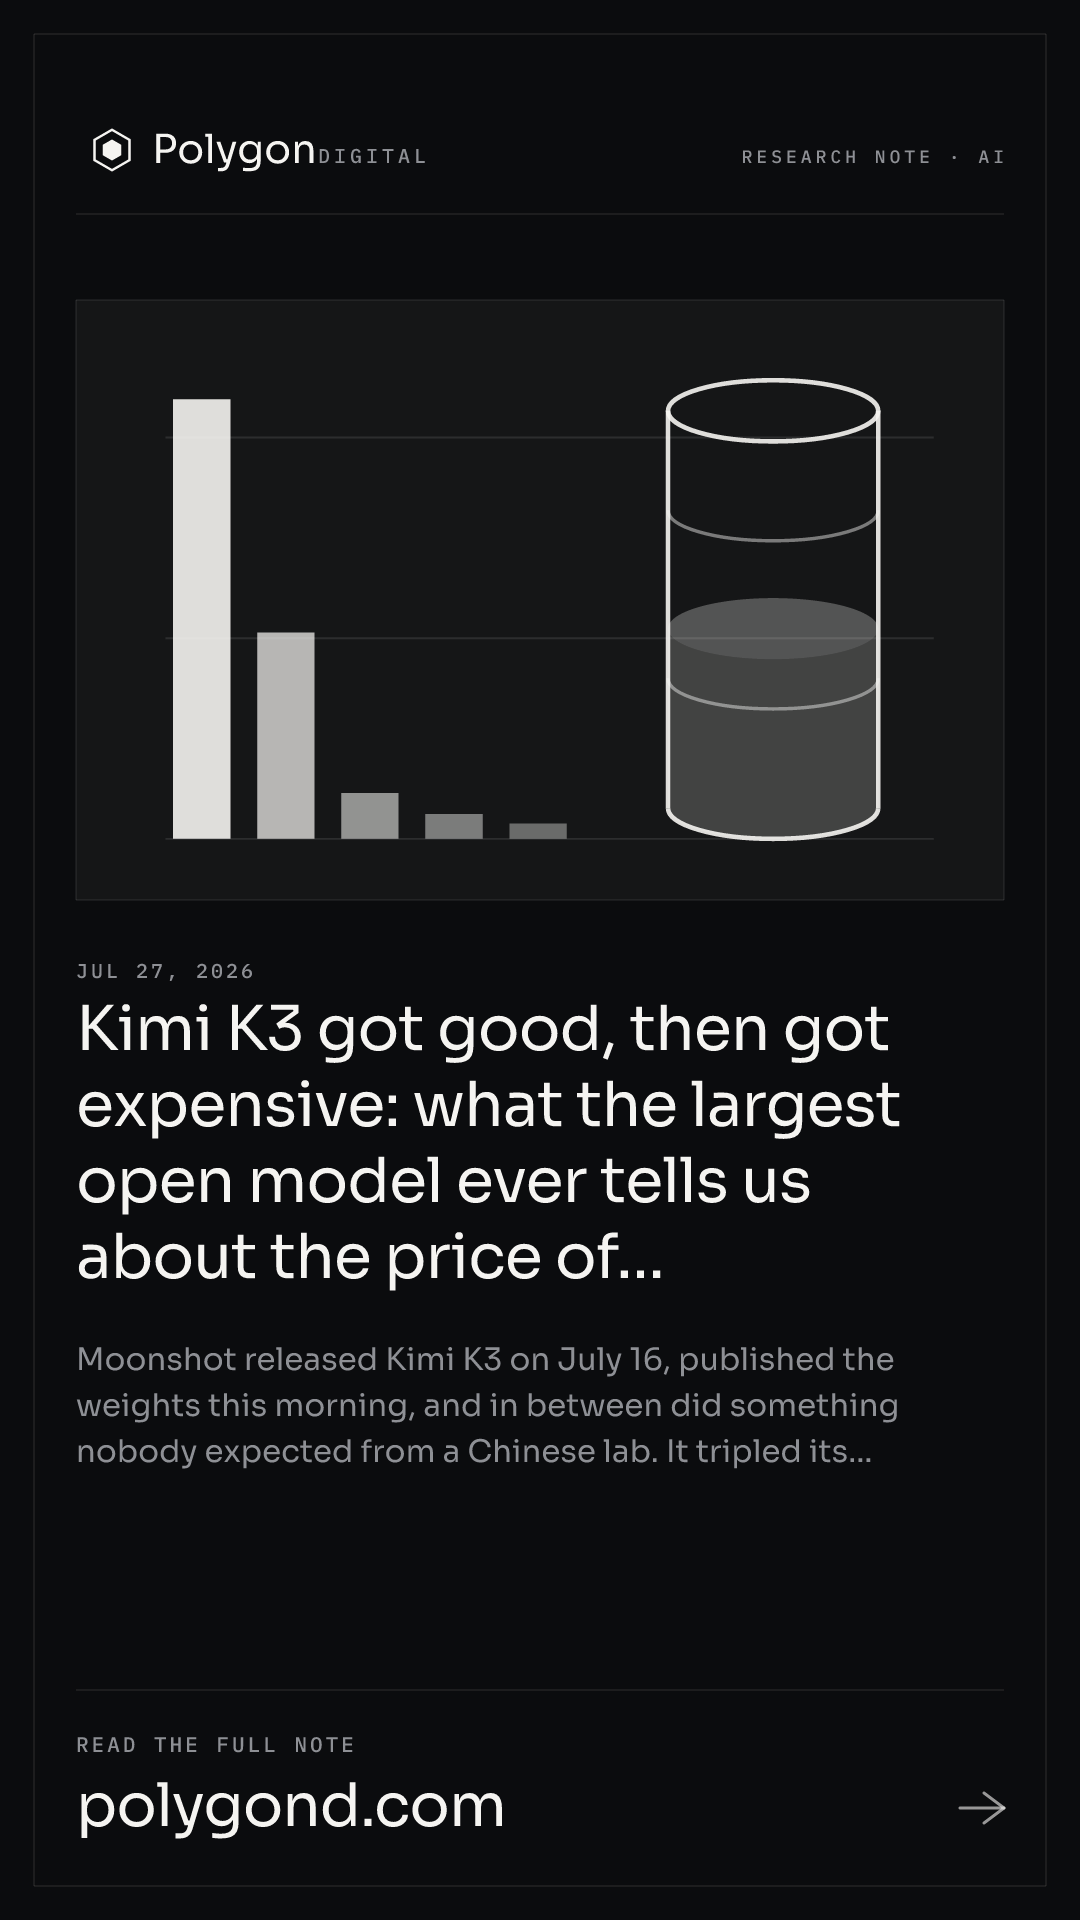
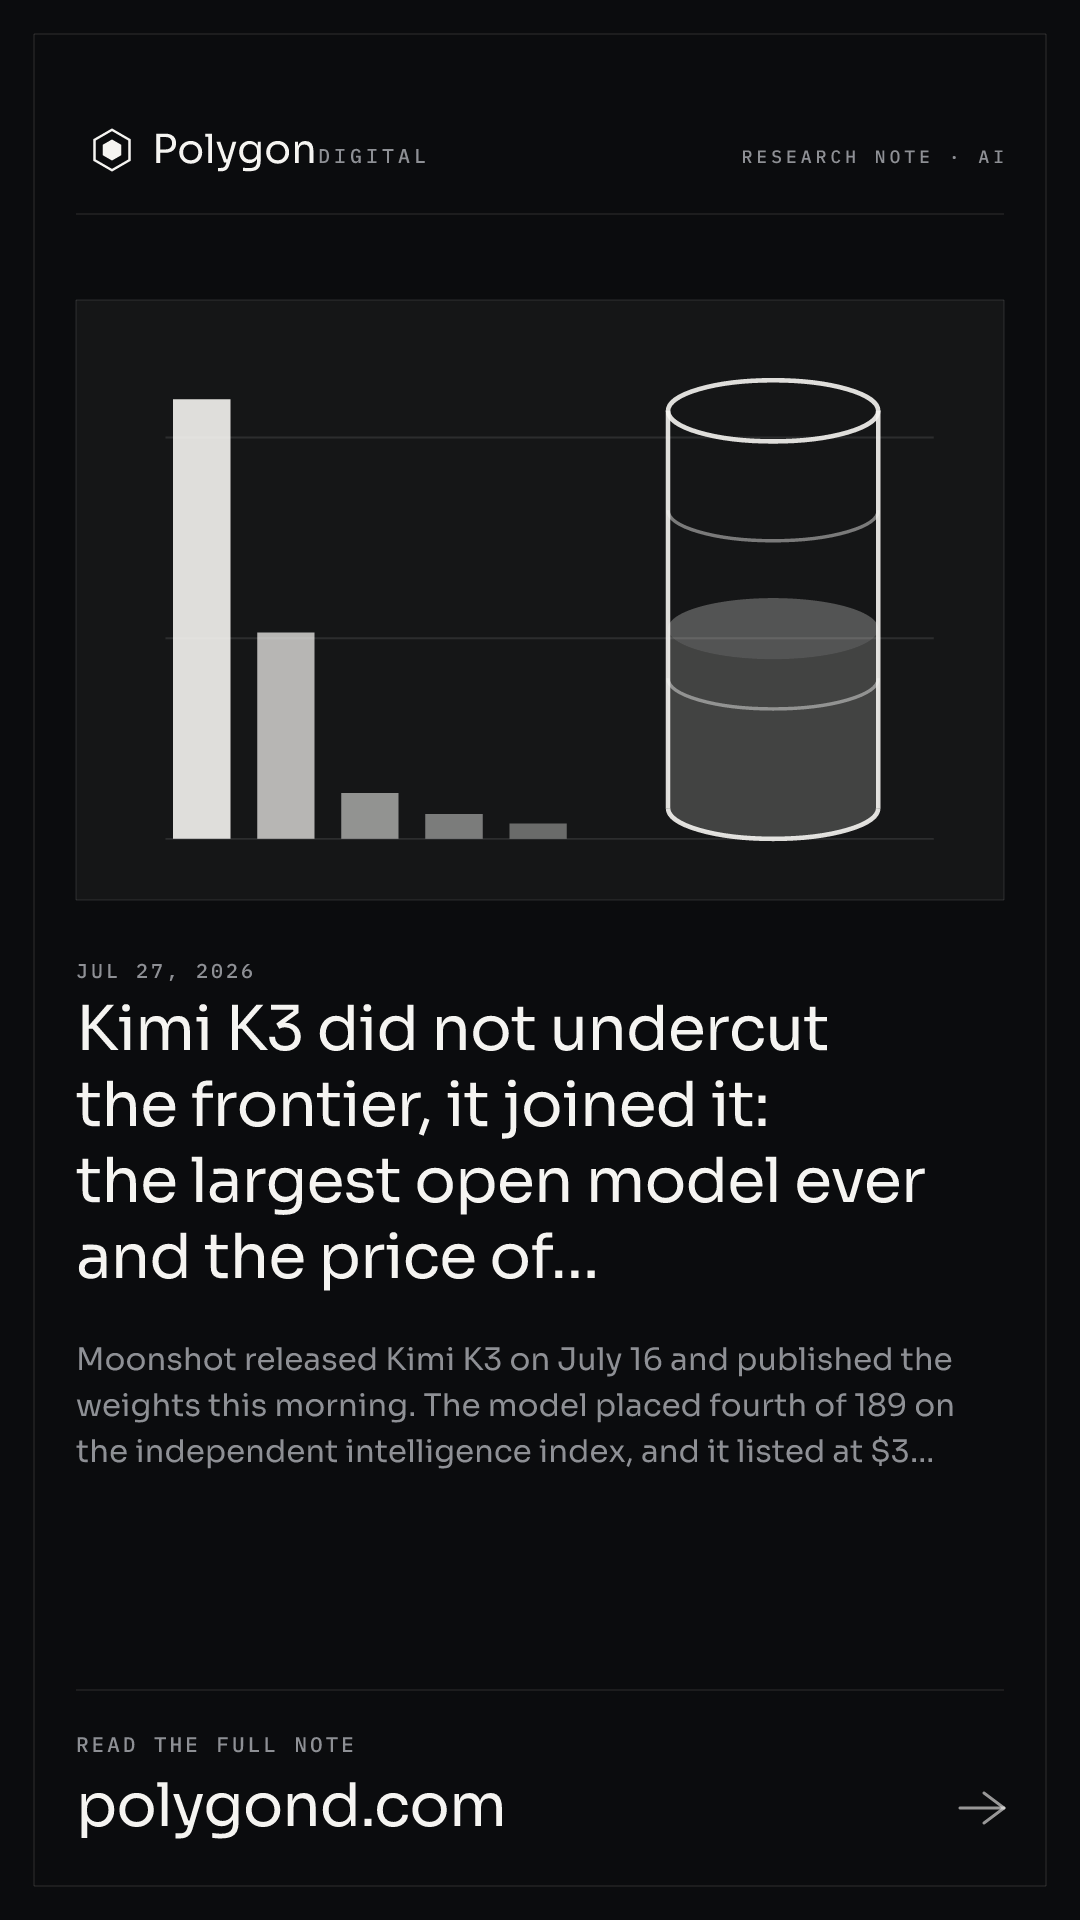
Correct the pricing framing: K3 is a new tier, not a price rise
Moonshot never repriced anything. K2.6 ($0.95/$4), K2.5 and K2 all remain
on the sheet unchanged; K3 simply launched a weight class up at $3/$15.
Retitles the post, rewrites the pricing section and the takeaway, and adds
the Moonshot price sheet as a reference.

Changed region(s): [[0.0611, 0.5312, 0.8556, 0.6875], [0.0611, 0.6875, 0.8861, 0.7812]]

diff --git a/src/posts/the-barrel-of-intelligence.md b/src/posts/the-barrel-of-intelligence.md
@@ -1,13 +1,13 @@
 ---
-title: "Kimi K3 got good, then got expensive: what the largest open model ever tells us about the price of intelligence"
+title: "Kimi K3 did not undercut the frontier, it joined it: the largest open model ever and the price of intelligence"
 date: 2026-07-27
-summary: Moonshot released Kimi K3 on July 16, published the weights this morning, and in between did something nobody expected from a Chinese lab. It tripled its price. The model placed fourth of 189 on the independent intelligence index and now lists at Claude Sonnet rates. Here is what that says about what a unit of intelligence is actually worth, why the deflation everyone is waiting for arrives through downloads rather than rate cards, and why the grade of the barrel matters more than the price of it.
+summary: Moonshot released Kimi K3 on July 16 and published the weights this morning. The model placed fourth of 189 on the independent intelligence index, and it listed at $3 per million input tokens, roughly triple what the previous Kimi costs. Moonshot did not raise anyone's prices. It launched a model a full weight class up and charged accordingly. Here is what that says about what a unit of intelligence is actually worth, why the deflation everyone is waiting for arrives through downloads rather than rate cards, and why the grade of the barrel matters more than the price of it.
 tags: ai, tokens, markets
 ---
 
-<p class="article-dek">Kimi K3 shipped on July 16 as the largest open-weight model ever built: 2.8 trillion parameters, a million-token context window, fourth of 189 models on the independent intelligence index. This morning Moonshot published the weights. Somewhere between those two events the model did something no one had it priced for. It got more expensive.</p>
+<p class="article-dek">Kimi K3 shipped on July 16 as the largest open-weight model ever built: 2.8 trillion parameters, a million-token context window, fourth of 189 models on the independent intelligence index. This morning Moonshot published the weights. And at $3 per million input tokens, it arrived at roughly triple the price of the Kimi that came before it.</p>
 
-<p class="lead">Our thesis in one sentence: K3 is the moment near-frontier capability stopped being a discount product, and the price move tells you more about where this market is heading than the benchmark table does. We covered the market reaction to this release in <a href="/blog/the-kimi-shock">the Kimi shock</a>. This note is about the number on the rate card, what it says about the cost of a unit of intelligence, and the thing almost nobody is pricing: that not all units are the same grade. It extends the argument we made in <a href="/blog/the-token-economy">the token paradox</a>.</p>
+<p class="lead">Our thesis in one sentence: K3 is the moment near-frontier capability stopped being a discount product, and where Moonshot placed it on the price sheet tells you more about where this market is heading than the benchmark table does. We covered the market reaction to this release in <a href="/blog/the-kimi-shock">the Kimi shock</a>. This note is about the number on the rate card, what it says about the cost of a unit of intelligence, and the thing almost nobody is pricing: that not all units are the same grade. It extends the argument we made in <a href="/blog/the-token-economy">the token paradox</a>.</p>
 
 ## What K3 actually posted
 
@@ -18,17 +18,19 @@ K3 sits **fourth of 189 models** on the Artificial Analysis Intelligence Index, 
 <div class="stat-band">
 <div class="stat"><span class="stat-v">#4 of 189</span><span class="stat-l">Artificial Analysis Intelligence Index, highest open-weight model ever<sup class="cite"><a href="#fn3">3</a></sup></span></div>
 <div class="stat"><span class="stat-v">1,679</span><span class="stat-l">Elo on LMArena Frontend Code, first place, up from #18 for K2.6<sup class="cite"><a href="#fn3">3</a></sup></span></div>
-<div class="stat"><span class="stat-v">3x</span><span class="stat-l">Input price increase from K2.6 to K3<sup class="cite"><a href="#fn4">4</a></sup></span></div>
+<div class="stat"><span class="stat-v">3.2x</span><span class="stat-l">K3's input price versus K2.6, which stays on the sheet at $0.95<sup class="cite"><a href="#fn7">7</a></sup></span></div>
 <div class="stat"><span class="stat-v">~594 GB</span><span class="stat-l">Quantized open weights, published today under a permissive license<sup class="cite"><a href="#fn5">5</a></sup></span></div>
 </div>
 
 That is not the profile of a cheap substitute. It is the profile of a product.
 
-## Then it raised its price
+## Then Moonshot priced it like a frontier model
 
-Kimi K3 lists at **$3 per million input tokens and $15 per million output**, with cached input at 30 cents. K2.6 listed at $0.95 and $4.<sup class="cite"><a href="#fn4">4</a></sup> Threefold on input, nearly fourfold on output, landing precisely on Claude Sonnet 5's rate card.
+Kimi K3 lists at **$3 per million input tokens and $15 per million output**, with cached input at 30 cents. K2.6 listed at $0.95 and $4.<sup class="cite"><a href="#fn4">4</a></sup> That is 3.2 times the input rate and 3.75 times the output rate, landing precisely on Claude Sonnet 5's card.
 
-The reflex reading is that Chinese labs are the deflation engine and everything drifts toward pennies. Moonshot just declined the role. It did not price at 50 cents because it no longer has to. The discount was never a strategy. It was a position, and K3 was the model that let the company leave it.
+One clarification worth making, because the shorthand gets this wrong: Moonshot did not raise anybody's prices. K2.6 is still on the sheet at $0.95 and $4, K2.5 at $0.60 and $3, K2 at $0.60 and $2.50, all unchanged.<sup class="cite"><a href="#fn7">7</a></sup> No existing customer saw a bill move. What happened is narrower and more interesting: Moonshot built a model a full weight class up and priced it for the class it had entered.
+
+The reflex reading of Chinese labs is that they are the deflation engine and everything drifts toward pennies. K3 declines the role. It is not priced at 50 cents because it does not have to be. The discount was never a strategy. It was a position, and K3 is the model that let the company leave it while keeping the cheap tier on sale underneath.
 
 To see why that matters, it helps to have a unit of account, and the best one on offer arrived two days before K3 shipped. On CNBC on July 14, Chamath Palihapitiya priced generative AI the way you would price crude: one barrel of intelligence equals one million tokens. Crude was trading near $80. The barrel of intelligence, he pointed out, was trading anywhere you liked. "You can buy it from OpenAI for 26 bucks. Anthropic's latest model costs you 56 bucks." And on the other side of the board: "Elon is selling you a barrel of intelligence for a buck. Zuck is about to sell it to you for a buck 50. Demis and Sundar are trying to sell it to you for a dollar. The Chinese will sell it to you for $0.50."<sup class="cite"><a href="#fn1">1</a></sup><sup class="cite"><a href="#fn2">2</a></sup>
 
@@ -86,7 +88,7 @@ To see why that matters, it helps to have a unit of account, and the best one on
 
 A hundredfold spread on what is nominally the same commodity. The forward call attached to it was specific: eventually a company misses earnings by a few cents and traces it straight back to buying $50 barrels when $1 barrels were on the shelf. He was careful to note it "hasn't happened yet."<sup class="cite"><a href="#fn2">2</a></sup>
 
-Put K3 on that board and the framing does something useful. It shows you that the 50 cent slot is now empty at the top of the quality curve. The cheapest seller of genuinely near-frontier capability just repriced itself into the middle of the board.
+Put K3 on that board and the framing does something useful. The 50 cent barrels are all still there. What is no longer there is a 50 cent barrel that competes at the top of the quality curve. Moonshot's cheap tier survived intact; its best model simply is not in it.
 
 ## The deflation is real. It is not coming from the rate card.
 
@@ -208,7 +210,7 @@ The cheap barrels have arrived. Most companies still have no refinery.
 <h3>The five things to remember</h3>
 <ol>
 <li><strong>K3 is a product now, not a discount.</strong> Fourth of 189 on the independent index, first on frontend code by blind human vote, first on legal and SaaS automation.</li>
-<li><strong>It raised its price to prove it.</strong> Input tripled to $3 and output nearly quadrupled to $15, matching Claude Sonnet 5. The 50 cent slot at the top of the quality curve is now empty.</li>
+<li><strong>Moonshot priced it accordingly.</strong> K3 lists at $3 and $15, matching Claude Sonnet 5, while K2.6 stays on sale at $0.95 and $4. Nobody's prices went up. The cheap tier just stopped being where the best model lives.</li>
 <li><strong>The spread is still the story.</strong> A million tokens costs anywhere from 50 cents to $56 depending on the seller. No commodity sustains a hundredfold spread indefinitely.</li>
 <li><strong>Deflation arrives through weights, not rate cards.</strong> With K3 open as of today, the price of near-frontier capability becomes an infrastructure question no lab controls.</li>
 <li><strong>Barrels have grades.</strong> K3 fabricates confidently 51% of the time it is uncertain, versus 36% for Opus and 28% for GLM. Harness choices swing benchmark results another 10 to 26 points on identical weights. That is where the durable advantage sits.</li>
@@ -224,6 +226,7 @@ The cheap barrels have arrived. Most companies still have no refinery.
 <li id="fn4"><span class="src">The Decoder</span>: K3 pricing versus K2.6, comparison to Sonnet 5 and to DeepSeek and GLM cost per task, and the argument that ultra-cheap Chinese frontier pricing is ending. <a href="https://the-decoder.com/kimis-open-model-k3-nears-gpt-5-6-sol-and-fable-5-while-signaling-the-end-of-super-cheap-chinese-ai/" target="_blank" rel="noopener">the-decoder.com</a></li>
 <li id="fn5"><span class="src">Hugging Face</span>: Kimi K3 model overview, 2.8T parameters, MXFP4 quantization and the open-weight release. <a href="https://huggingface.co/blog/ResterChed/kimi-k3-model-overview-mxfp4-quantization-open-wei" target="_blank" rel="noopener">huggingface.co</a></li>
 <li id="fn6"><span class="src">Kili Technology</span>: Kimi K3's benchmarks and hallucinations, and the measured gap between lab benchmark scores and real-world deployment performance. <a href="https://kili-technology.com/blog/kimi-k3s-benchmarks-and-hallucinations----what-that-tells-us-about-ai-evaluation" target="_blank" rel="noopener">kili-technology.com</a></li>
+<li id="fn7"><span class="src">BenchLM</span>: Moonshot API price sheet, July 2026, showing K3 at $3.00 / $15.00 alongside K2.6 at $0.95 / $4.00, K2.5 at $0.60 / $3.00 and K2 at $0.60 / $2.50, all unchanged and still offered. <a href="https://benchlm.ai/moonshot/api-pricing" target="_blank" rel="noopener">benchlm.ai</a></li>
 </ol>
 
 <p class="disclaimer"><strong>Disclaimer.</strong> This note is produced by Polygon Digital for informational and educational purposes only. It is not investment, financial, legal or tax advice and is not a recommendation regarding any company or security, including any company named above. Views are our own opinion as of the publication date. Token prices, benchmark scores, hallucination rates and cost-per-task estimates are sourced from third parties as cited, are frequently self-reported or preliminary, and change rapidly. Prices quoted in broadcast interviews are approximate. Verify against primary sources before relying on any figure here.</p>
